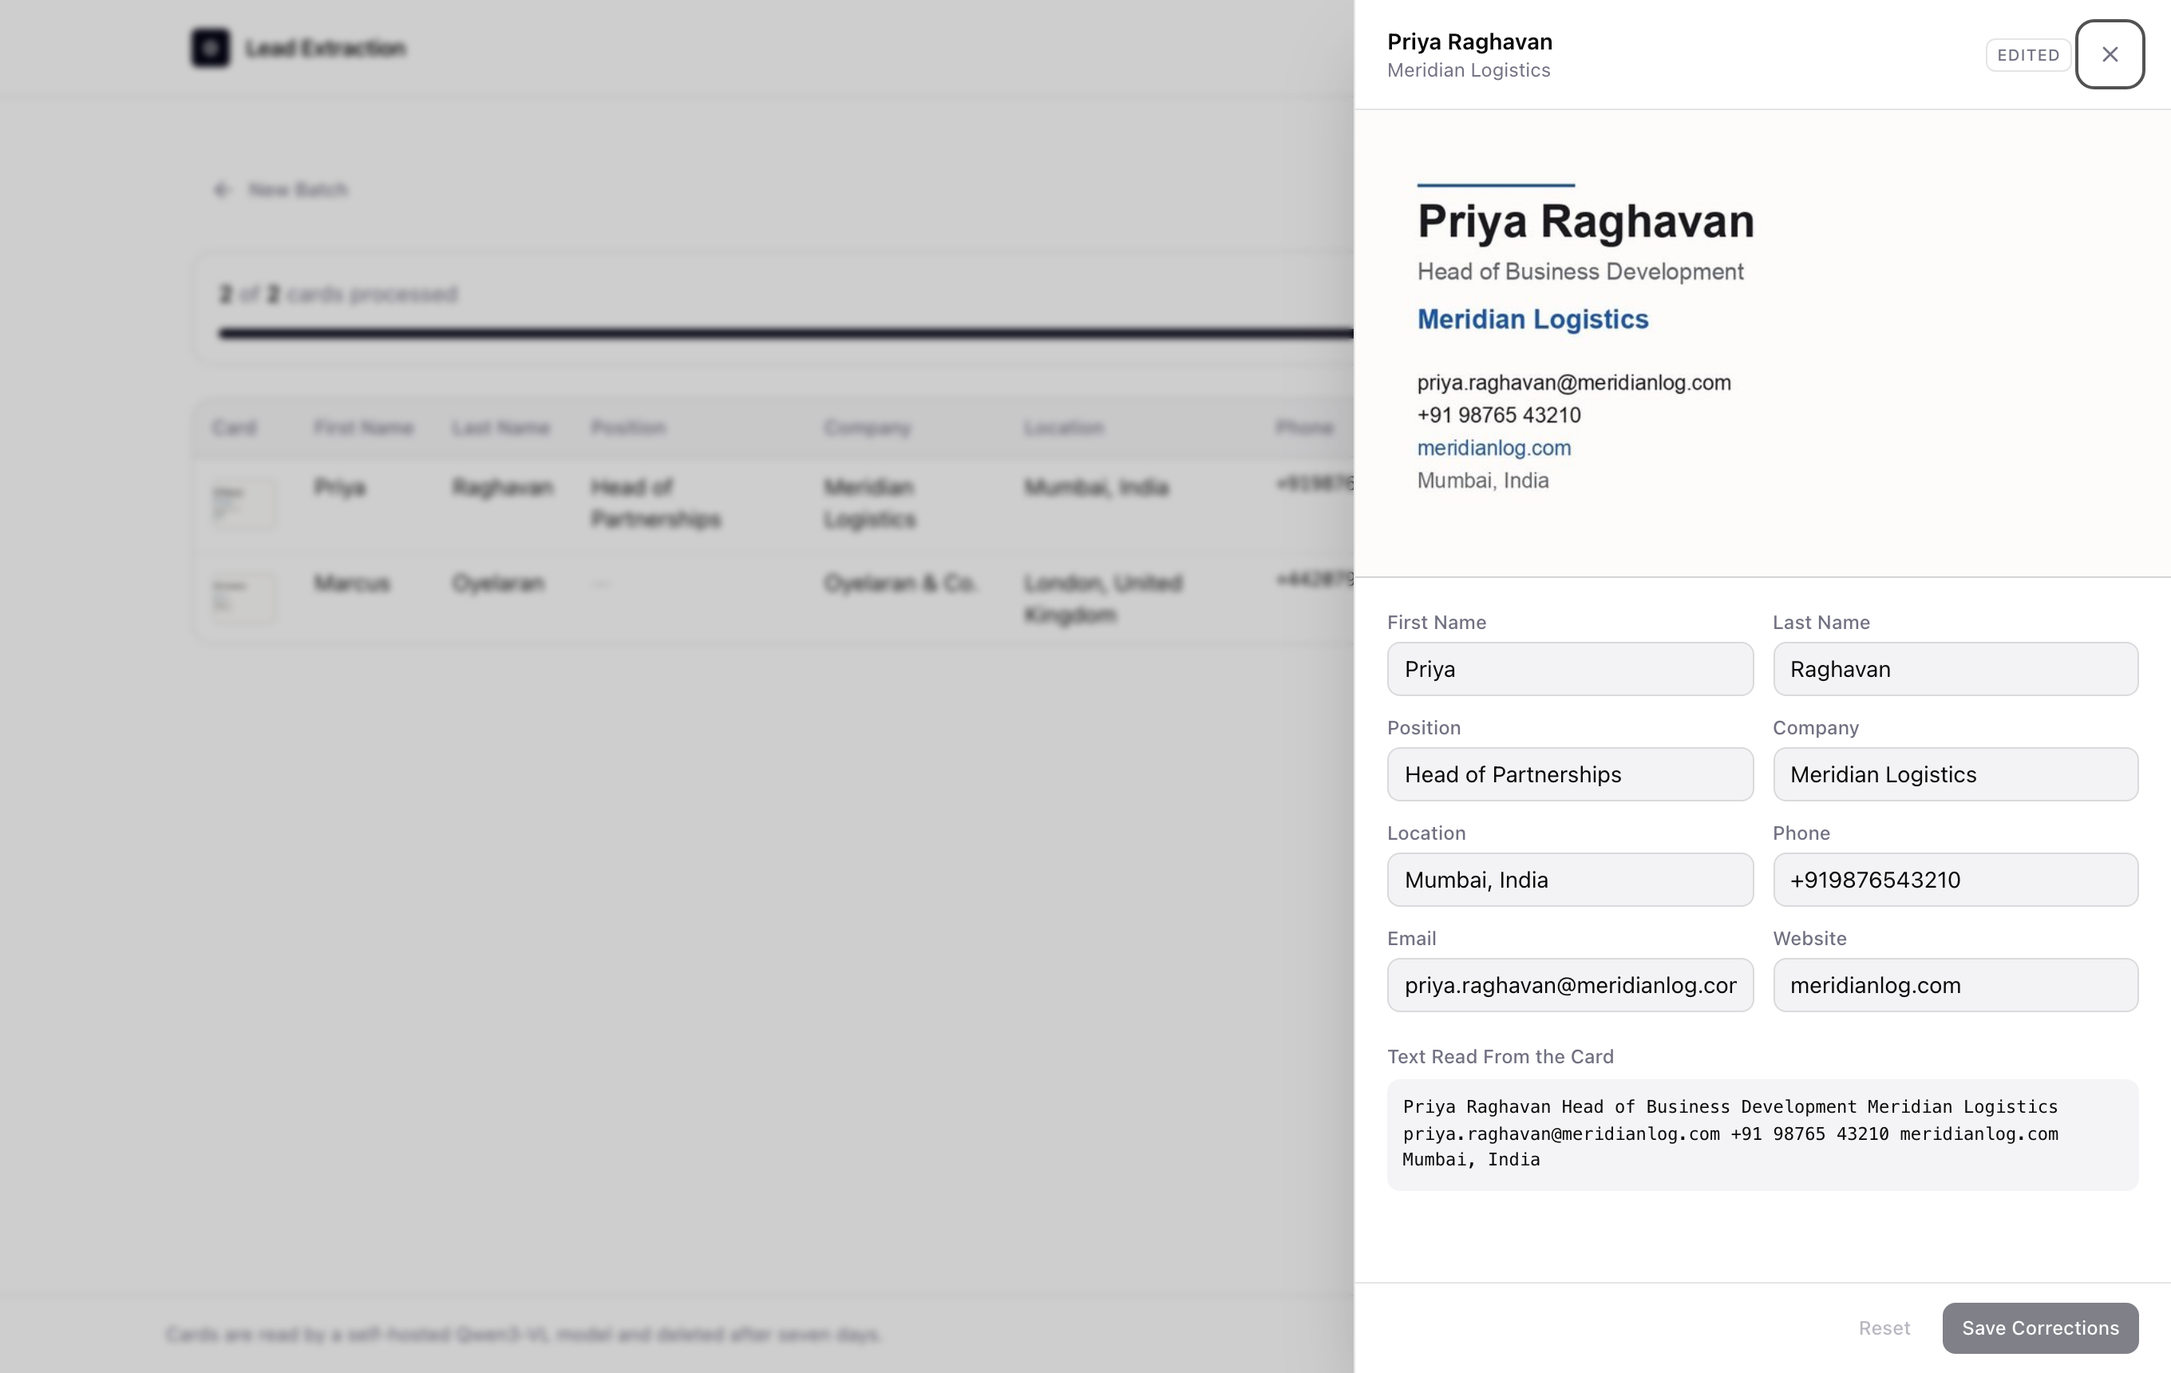
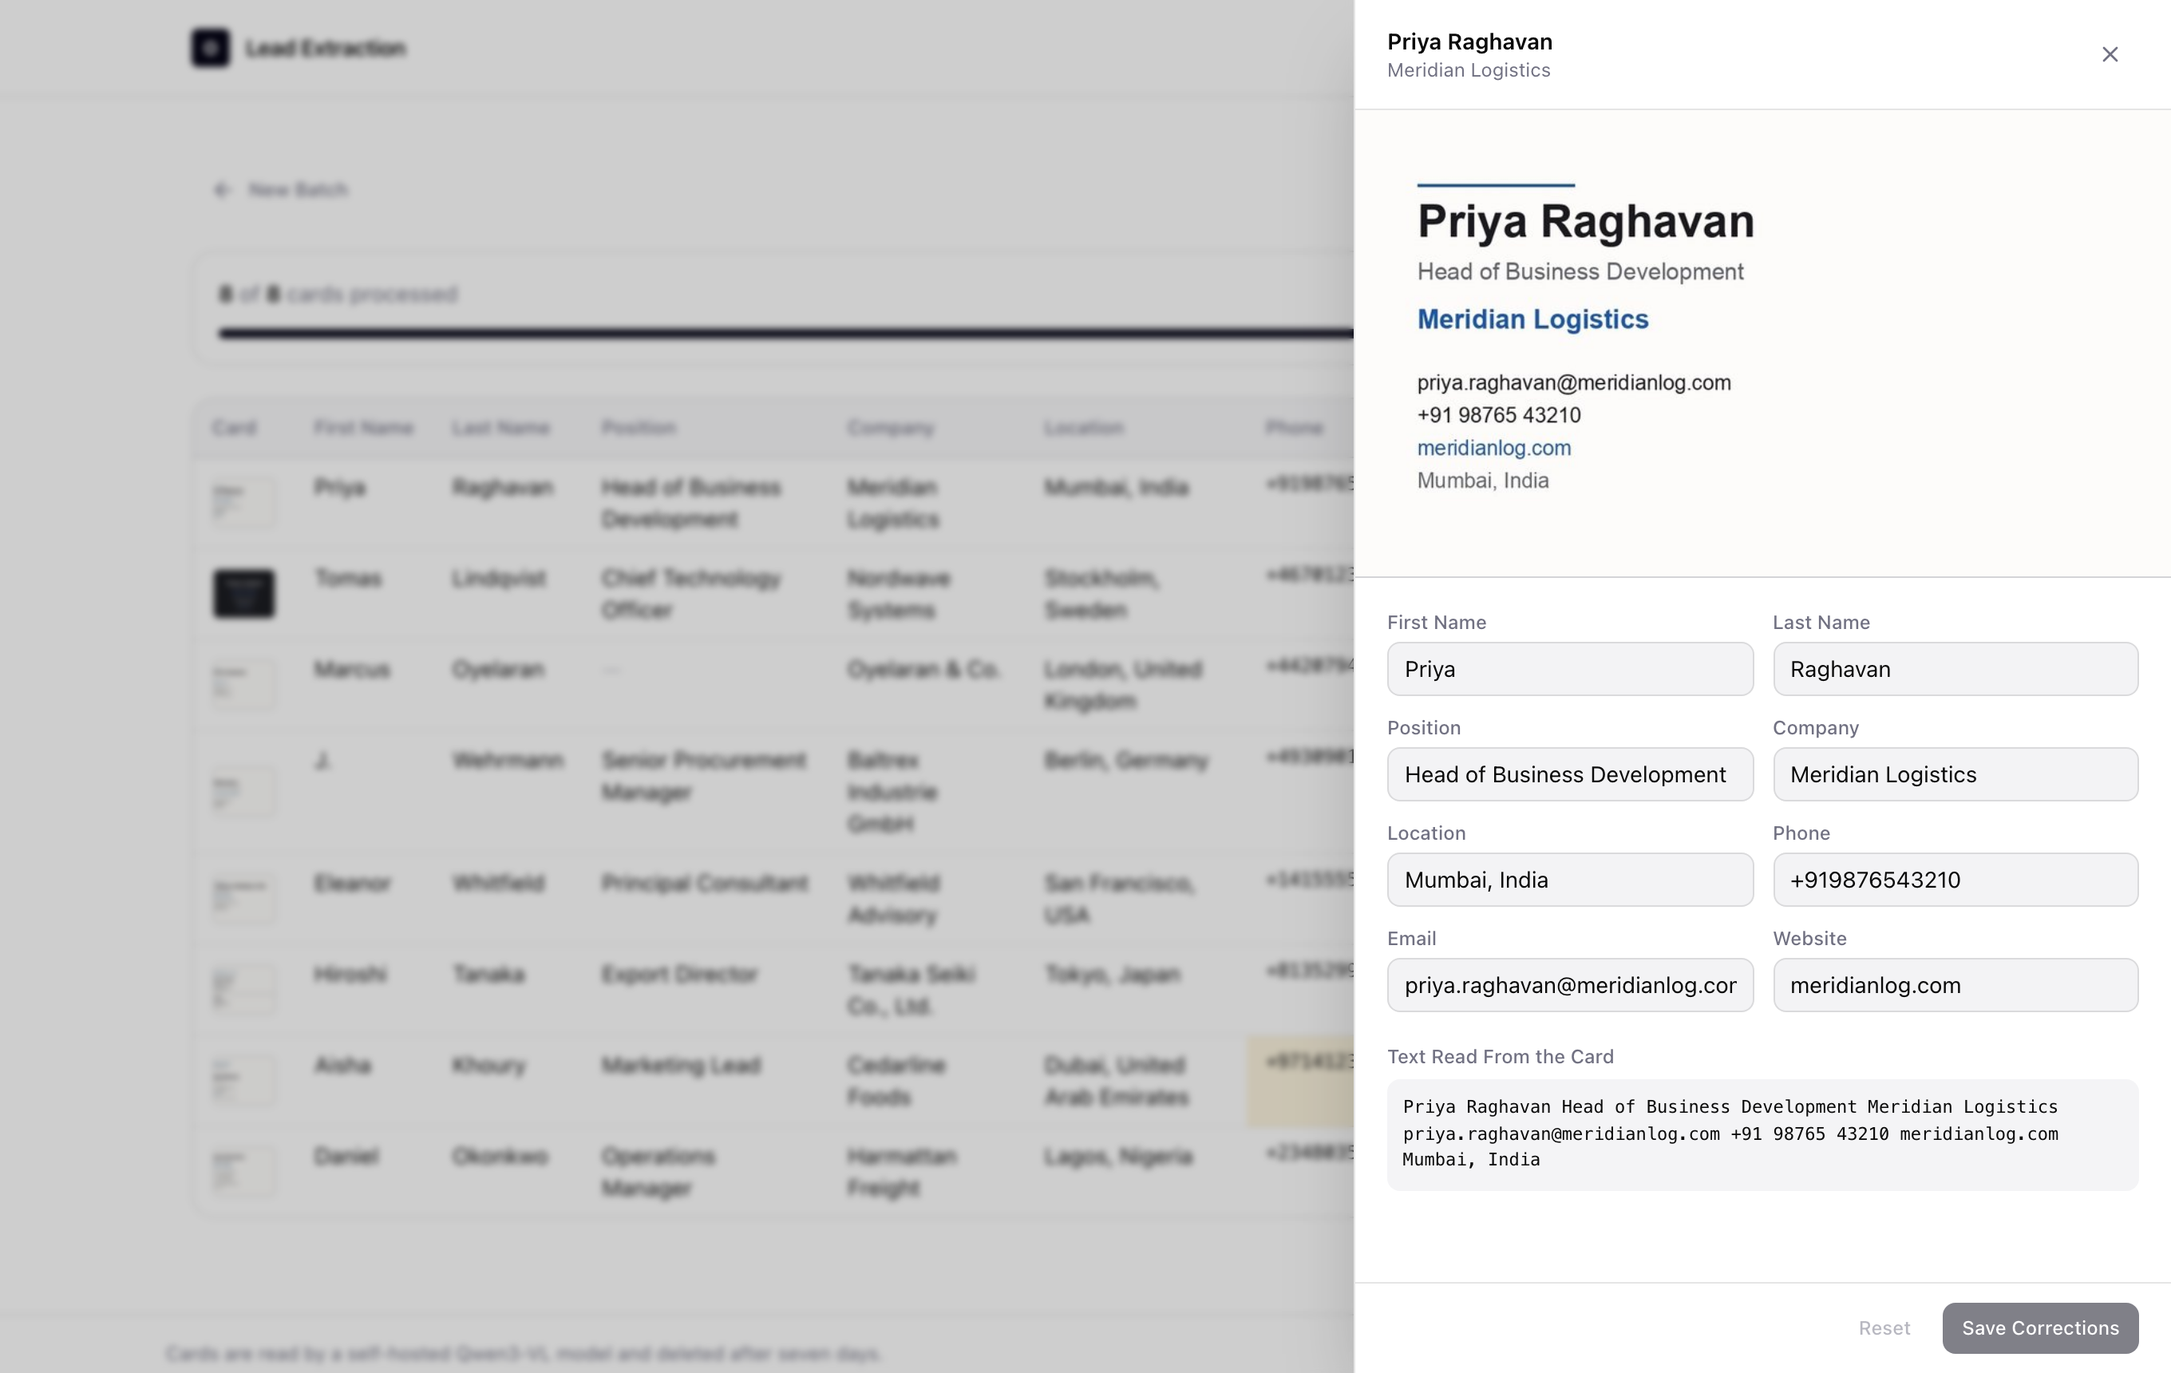
docs(readme): document the live GPU deployment
Lead with the public URL and what actually serves it: one T4 VM on Azure,
the 8B model as tier 1, measured at about 9 s per card and 100 % on the
evaluation set from the public URL. Explain plainly why the GPU tier is on
Azure when the brief named AWS, and that the AWS path is one command away.

Replace the projected T4 latency with the measured figures, add a system
diagram, a recorded walkthrough of a real batch on the live deployment, and
screenshots retaken there so every row shows the tier that read it.

diff --git a/README.md b/README.md
@@ -6,16 +6,21 @@
 
 Upload cards in bulk · extract seven structured fields per card · review and correct in the browser · export a formatted Excel workbook.
 
-[Live demo](#) · [Architecture](docs/ARCHITECTURE.md) · [Design decisions](docs/DECISIONS.md) · [Evaluation](docs/EVALUATION.md) · [Runbook](docs/RUNBOOK.md)
+**[Open the live app →](https://muditagrawal-20-80-103-145.sslip.io)**
+
+[Setup guide](docs/SETUP.md) · [Architecture](docs/ARCHITECTURE.md) · [Design decisions](docs/DECISIONS.md) · [Evaluation](docs/EVALUATION.md) · [Runbook](docs/RUNBOOK.md)
 
 </div>
 
-![The results view, showing extracted leads with per-field confidence and the inference tier that produced each row](docs/images/results-light.png)
+![Eight business cards uploaded, extracted on the GPU tier in forty-one seconds, reviewed in the detail drawer, and exported to Excel](docs/images/walkthrough.gif)
+
+<div align="center"><sub>Eight cards, uploaded to the live deployment and extracted on the GPU tier in real time. No cuts.</sub></div>
 
 ---
 
 ## Contents
 
+- [Live deployment](#live-deployment)
 - [What it does](#what-it-does)
 - [How it works](#how-it-works)
 - [Measured results](#measured-results)
@@ -30,6 +35,17 @@ Upload cards in bulk · extract seven structured fields per card · review and c
 - [Privacy and data handling](#privacy-and-data-handling)
 
 ---
+
+## Live deployment
+
+| | |
+|---|---|
+| **URL** | <https://muditagrawal-20-80-103-145.sslip.io> — TLS by Let's Encrypt, no login |
+| **Runs on** | One `Standard_NC4as_T4_v3` VM on Azure (Central US): 4 vCPU, 28 GB, one NVIDIA T4 16 GB |
+| **Serving** | Qwen3-VL-8B-Instruct Q8_0 on the GPU as tier 1; Qwen3-VL-4B Q4_K_M on the CPU as tier 2 |
+| **Measured** | A warm server clears an 8-card batch in **41 seconds** — about 9 s per card, two in flight — and scored **100 %** on the evaluation set from the public URL |
+
+**Why Azure, when the brief said AWS.** The stack was built for AWS and first went live there on an `m7i-flex.large` (the free-tier-equivalent, CPU profile), where a card takes about 113 s. AWS then declined the G-instance vCPU quota for a new account — the standard answer, appealed and escalated to the EC2 service team, still pending at the time of writing. Azure approved a T4 in fifteen minutes. The Compose file, the images and the bootstrap logic are the same on both clouds; the only Azure-specific code is an 85-line script that installs the NVIDIA driver and container toolkit the AWS image ships pre-installed. Both paths are documented in the [setup guide](docs/SETUP.md), and the AWS deployment comes back with one command when the quota lands.
 
 ## What it does
 
@@ -49,28 +65,48 @@ Three properties make the output usable rather than merely plausible:
 
 ## How it works
 
-```
-upload → validate & deduplicate → EXIF orient, strip metadata, downscale
-       → queue (PostgreSQL) → worker → VLM → normalise → lead → Excel
+```mermaid
+flowchart LR
+    subgraph browser [Browser]
+        UI[React SPA]
+    end
+    subgraph vm ["One VM · Docker Compose"]
+        Caddy["Caddy<br/>TLS · static · /api"]
+        API[FastAPI]
+        PG[("PostgreSQL 16<br/>leads + work queue")]
+        W[Worker]
+        subgraph chain ["Inference chain · one circuit breaker per tier"]
+            direction TB
+            T1["Tier 1 · Qwen3-VL-8B Q8_0<br/>llama.cpp on the T4"]
+            T2["Tier 2 · Qwen3-VL-4B Q4_K_M<br/>llama.cpp on CPU"]
+        end
+    end
+    T3["Tier 3 · qwen3-vl-plus<br/>Alibaba Model Studio"]
+
+    UI -- HTTPS --> Caddy --> API
+    API -- "validate · dedupe · strip EXIF · downscale" --> PG
+    PG -- "SKIP LOCKED claim" --> W
+    W --> T1 -. "fails or times out" .-> T2 -. "fails or times out" .-> T3
+    T1 & T2 & T3 -- JSON --> W
+    W -- "normalise · score" --> PG
+    PG -- "leads · xlsx · csv" --> API
 ```
 
 A card is never sent to a single point of failure. Each one runs through an ordered chain of inference tiers, each behind its own circuit breaker:
 
-| Tier | Model | Where | Latency/card |
+| Tier | Model | Where | Latency/card (measured) |
 |---|---|---|---|
-| 1 | Qwen3-VL-8B-Instruct (Q8_0) | Self-hosted, NVIDIA T4 | ~2–4 s* |
-| 2 | Qwen3-VL-4B-Instruct (Q4_K_M) | Self-hosted, CPU | ~20–30 s |
+| 1 | Qwen3-VL-8B-Instruct (Q8_0) | Self-hosted, NVIDIA T4 | **9–12 s** warm; 34 s for the first card after a restart |
+| 2 | Qwen3-VL-4B-Instruct (Q4_K_M) | Self-hosted, CPU | 113 s median on 2 vCPUs; ~20 s on Apple Silicon |
 | 3 | Qwen3-VL (hosted Qwen API) | Alibaba Model Studio | ~3–6 s |
 
-<sub>*Projected for a T4 and not yet measured on one; see [Evaluation](docs/EVALUATION.md).</sub>
-
-If a tier fails or times out, the next takes over. After three consecutive failures its breaker opens and it is skipped until a probe succeeds — without that, a dead GPU container would cost every card in a 50-card batch a full timeout before falling through.
+If a tier fails or times out, the next takes over. After three consecutive failures its breaker opens and it is skipped until a probe succeeds — without that, a dead GPU container would cost every card in a 50-card batch a full timeout before falling through. The queue is PostgreSQL itself (`SELECT … FOR UPDATE SKIP LOCKED` with leases), so a worker that dies mid-card loses nothing and there is no broker to operate. The full diagrams — request flow, per-card processing, data model — are in [docs/ARCHITECTURE.md](docs/ARCHITECTURE.md).
 
 ### Structured output
 
 On the self-hosted tiers the JSON schema is compiled into a grammar, so the model **cannot** emit malformed JSON or unknown fields. Hosted providers vary, so the client degrades through `json_schema` → `json_object` → mining the first JSON object out of the text, with one repair attempt that feeds the validation error back. The rung that succeeded is stored per card, which keeps accuracy comparisons between tiers honest.
 
-Every field is **required but nullable**: the model must answer for each one, and an explicit `null` is a valid answer. That distinction is what took field accuracy from 82.1% to 100% on the evaluation set — an *optional* field in a grammar is one the model may silently skip, and it did.
+Every field is **required but nullable**: the model must answer for each one, and an explicit `null` is a valid answer. That distinction is what took field accuracy from 82.1 % to 100 % on the evaluation set — an *optional* field in a grammar is one the model may silently skip, and it did.
 
 ### No separate OCR engine
 
@@ -78,14 +114,16 @@ Qwen3-VL reads card text directly and more accurately than a CRAFT/CRNN pipeline
 
 ## Measured results
 
-Every figure here comes from `eval/run_eval.py`, not from impressions.
+Every figure here comes from `eval/run_eval.py` or from the deployed service, not from impressions.
 
-| Model | Image | Field accuracy | Perfect cards | p50 | p95 |
+| Model | Where | Image | Field accuracy | Perfect cards | Latency/card |
 |---|---|---|---|---|---|
-| Qwen3-VL-4B Q4_K_M | 768 px | **100.0%** | 8 / 8 | 20.6 s | 30.1 s |
-| Qwen3-VL-8B Q8_0 | 768 px | **100.0%** | 8 / 8 | 64.4 s | 72.8 s |
+| Qwen3-VL-8B Q8_0 | **Live, T4 GPU** | 768 px | **100.0 %** | 8 / 8 | 8.7–12.1 s (8.9 s median) |
+| Qwen3-VL-8B Q8_0 | Apple Silicon, Metal | 768 px | **100.0 %** | 8 / 8 | 64.4 s p50 |
+| Qwen3-VL-4B Q4_K_M | Apple Silicon, Metal | 768 px | **100.0 %** | 8 / 8 | 20.6 s p50 |
+| Qwen3-VL-4B Q4_K_M | AWS `m7i-flex.large`, 2 vCPU | 768 px | — | 7 / 8 completed | 113 s median; one card hit the 600 s ceiling |
 
-Measured on Apple Silicon with Metal offload, against eight synthetic cards built around the layouts that break extraction: a dark centred card, one with no job title, a first name given only as an initial, an honorific and suffix, two people on one card, a slogan where a company name usually sits, and a card listing mobile, office and fax.
+The card set is eight synthetic cards built around the layouts that break extraction: a dark centred card, one with no job title, a first name given only as an initial, an honorific and suffix, two people on one card, a slogan where a company name usually sits, and a card listing mobile, office and fax.
 
 > **This is not a production accuracy claim.** Those cards are clean renders with perfect focus and no glare, skew or creases. They isolate reasoning and schema failures — which is what they were built for, and they caught a real one — but they do not test perception. Both models now score full marks, so the set can no longer distinguish them; harder input is the next evaluation priority. See [docs/EVALUATION.md](docs/EVALUATION.md) for what remains unmeasured.
 
@@ -101,16 +139,16 @@ Measured on Apple Silicon with Metal offload, against eight synthetic cards buil
 <td><em>Review a card against what the model read, and correct any field.</em></td>
 </tr>
 <tr>
-<td colspan="2"><img src="docs/images/results-dark.png" alt="The results view in dark theme"></td>
+<td colspan="2"><img src="docs/images/results-dark.png" alt="The results view in dark theme, every row badged with the GPU tier that read it"></td>
 </tr>
 <tr>
-<td colspan="2"><em>Light, dark and system themes; the palette is taken from O-HIVE's own design system.</em></td>
+<td colspan="2"><em>Light, dark and system themes; the palette is taken from O-HIVE's own design system. The amber cell is a number whose country code the model could not confirm from the card — hover the icon and it says so.</em></td>
 </tr>
 </table>
 
 ## Quick start
 
-**Requires** Docker, Python 3.12, Node 22, [uv](https://docs.astral.sh/uv/), and [llama.cpp](https://github.com/ggml-org/llama.cpp).
+**Requires** Docker, Python 3.12, Node 22, [uv](https://docs.astral.sh/uv/), and [llama.cpp](https://github.com/ggml-org/llama.cpp). The [setup guide](docs/SETUP.md) walks through every step, including production on either cloud.
 
 ```bash
 make install        # backend and frontend dependencies
@@ -153,7 +191,7 @@ Every setting is an environment variable with a safe default, so one image runs 
 
 ## API
 
-Interactive documentation at `/api/docs`. All routes are under `/api/v1`.
+Interactive documentation at [`/api/docs`](https://muditagrawal-20-80-103-145.sslip.io/api/docs). All routes are under `/api/v1`.
 
 | Method | Path | Purpose |
 |---|---|---|
@@ -170,14 +208,14 @@ Interactive documentation at `/api/docs`. All routes are under `/api/v1`.
 An invalid file is reported individually rather than failing the batch — twenty cards and one screenshot yields nineteen leads and one clear message.
 
 ```bash
-curl -X POST http://localhost:8000/api/v1/jobs \
+curl -X POST https://muditagrawal-20-80-103-145.sslip.io/api/v1/jobs \
   -F "files=@card-one.jpg" -F "files=@card-two.jpg"
 ```
 
 ## Testing
 
 ```bash
-make test           # 173 backend, 7 frontend
+make test           # 192 backend, 7 frontend
 make lint           # ruff, pyright, eslint, tsc
 make eval           # field accuracy against the known-answer card set
 ```
@@ -188,23 +226,29 @@ CI runs both suites, builds both container images, and applies every migration f
 
 ## Deployment
 
-One EC2 instance running Docker Compose behind Caddy, which terminates TLS and serves the built SPA. Two profiles over one Compose file:
+One VM running Docker Compose behind Caddy, which terminates TLS and serves the built SPA. Two profiles over one Compose file:
 
 ```bash
-docker compose -f deploy/docker-compose.prod.yml --profile gpu up -d --build
-docker compose -f deploy/docker-compose.prod.yml --profile cpu up -d --build
+docker compose --env-file .env -f deploy/docker-compose.prod.yml --profile gpu up -d --build
+docker compose --env-file .env -f deploy/docker-compose.prod.yml --profile cpu up -d --build
 ```
 
-The `cpu` profile is the same stack without the GPU container. The API and worker images are identical between them, so switching is configuration rather than a second deployment. `deploy/ec2/user-data-gpu.sh` handles first boot: it verifies the GPU is visible *from inside a container*, downloads weights with retries, and waits for `/api/v1/ready` rather than reporting success when containers start.
+The `cpu` profile is the same stack without the GPU container. The API and worker images are identical between them, so switching is configuration rather than a second deployment.
+
+| Cloud | Instance | Bootstrap | Notes |
+|---|---|---|---|
+| AWS | `g4dn.xlarge` (T4) | `deploy/ec2/user-data-gpu.sh` | Deep Learning Base AMI: driver and container toolkit pre-installed |
+| AWS | `m7i-flex.large` (CPU) | `deploy/ec2/user-data-cpu.sh` | The free-tier-equivalent; 4B model only |
+| Azure | `Standard_NC4as_T4_v3` (T4) | `deploy/azure/bootstrap-gpu.sh` | Installs the driver and toolkit, then runs the EC2 script unchanged |
+
+Every bootstrap verifies the GPU is visible *from inside a container*, downloads weights with retries, and waits for `/api/v1/ready` rather than reporting success when containers start. No domain is needed: [sslip.io](https://sslip.io) resolves the IP-encoded host name and Caddy obtains a real certificate for it.
 
 <details>
-<summary><strong>About "free tier"</strong></summary>
+<summary><strong>What "free tier" turned out to mean</strong></summary>
 
-Worth being straightforward about, because it shapes the whole design: **no AWS free-tier instance can run this.** The free-tier-eligible types have 1–2 GB of RAM and the smallest usable Qwen VLM needs about 3 GB with its vision projector. AWS also has no free GPU hours.
+**No AWS free-tier instance can run this.** The free-tier-eligible types have 1–2 GB of RAM and the smallest usable Qwen VLM needs about 3 GB with its vision projector. AWS has no free GPU hours either. What exists is the new-account credit pool, which covers a `g4dn.xlarge` (~$0.54/h) for about a week — *if* the G-instance quota is granted, and a new account starts at zero. Ours was declined at first line and is with the EC2 service team on appeal. The Free Plan also cannot change instance type or launch anything outside six free-tier types, so the CPU deployment there is capped at 2 vCPUs, which is where the 113 s per card comes from.
 
-What does exist is the new-account **Free Plan credit pool** — $100 at signup plus up to $100 for onboarding tasks, valid six months. On a `g4dn.xlarge` (T4, ~**$0.54/hour** all-in) that is roughly **7.5 days** of continuous uptime for $100. GPU capacity also needs a Service Quotas increase; new accounts start at zero.
-
-The deployment plan is therefore: run the GPU profile for the evaluation window with billing alarms at $50 and $80, then switch to the CPU profile when ~$40 of credit remains so the URL outlives the GPU budget. The Elastic IP moves with it, so the public URL and its certificate do not change. [docs/RUNBOOK.md](docs/RUNBOOK.md) has the procedure.
+Azure's new-subscription credit ($200) covers the T4 VM (~$0.59/h) for the evaluation window, and its quota process — a support ticket, free on every plan — answered in fifteen minutes. The [setup guide](docs/SETUP.md) documents both quota gates so the next person does not rediscover them.
 </details>
 
 ## Project structure
@@ -216,9 +260,9 @@ backend/          FastAPI application, extraction worker, ORM, tests
   app/vlm/        provider chain, circuit breakers, prompts, schema
   app/worker/     queue poller
 frontend/         React 19 + TypeScript SPA
-deploy/           Compose files, Caddyfile, EC2 bootstrap
-eval/             Card set, ground truth, accuracy harness
-docs/             Architecture, decisions, evaluation, runbook
+deploy/           Compose files, Caddyfile, EC2 and Azure bootstraps
+eval/             Card set, ground truth, accuracy harness, recorded runs
+docs/             Setup guide, architecture, decisions, evaluation, runbook
 scripts/          Model download
 ```
 
